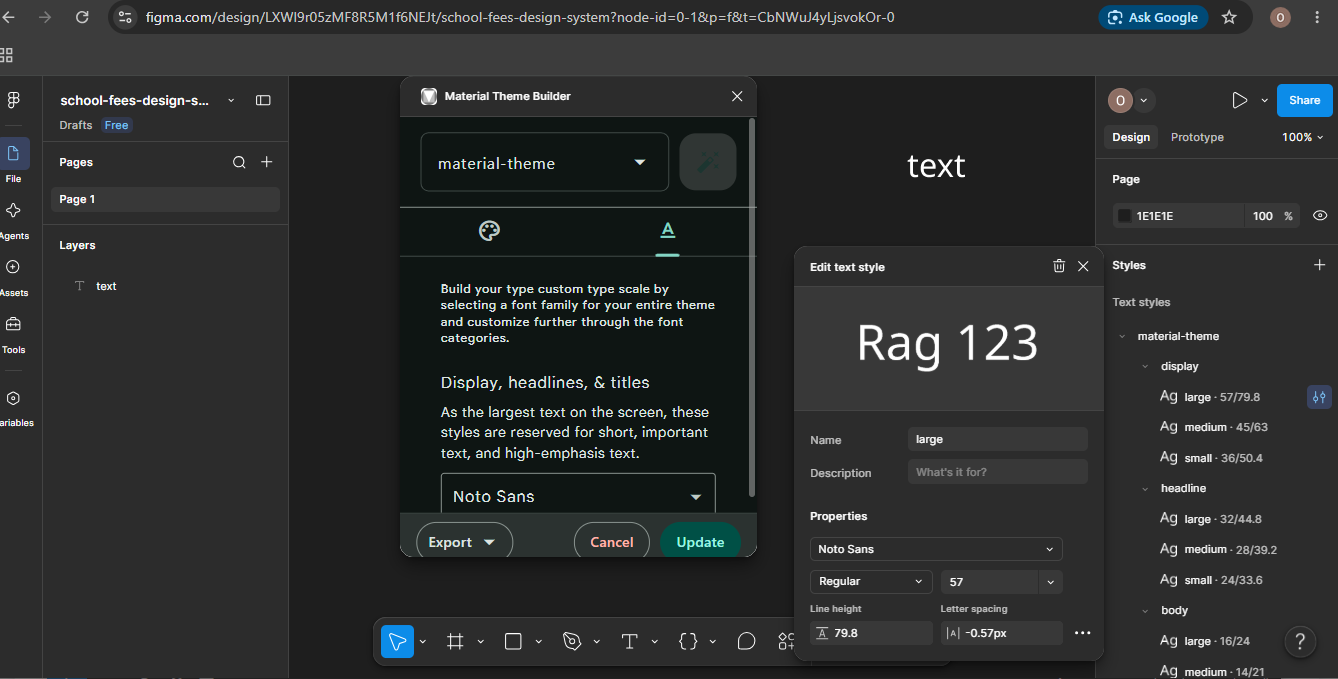
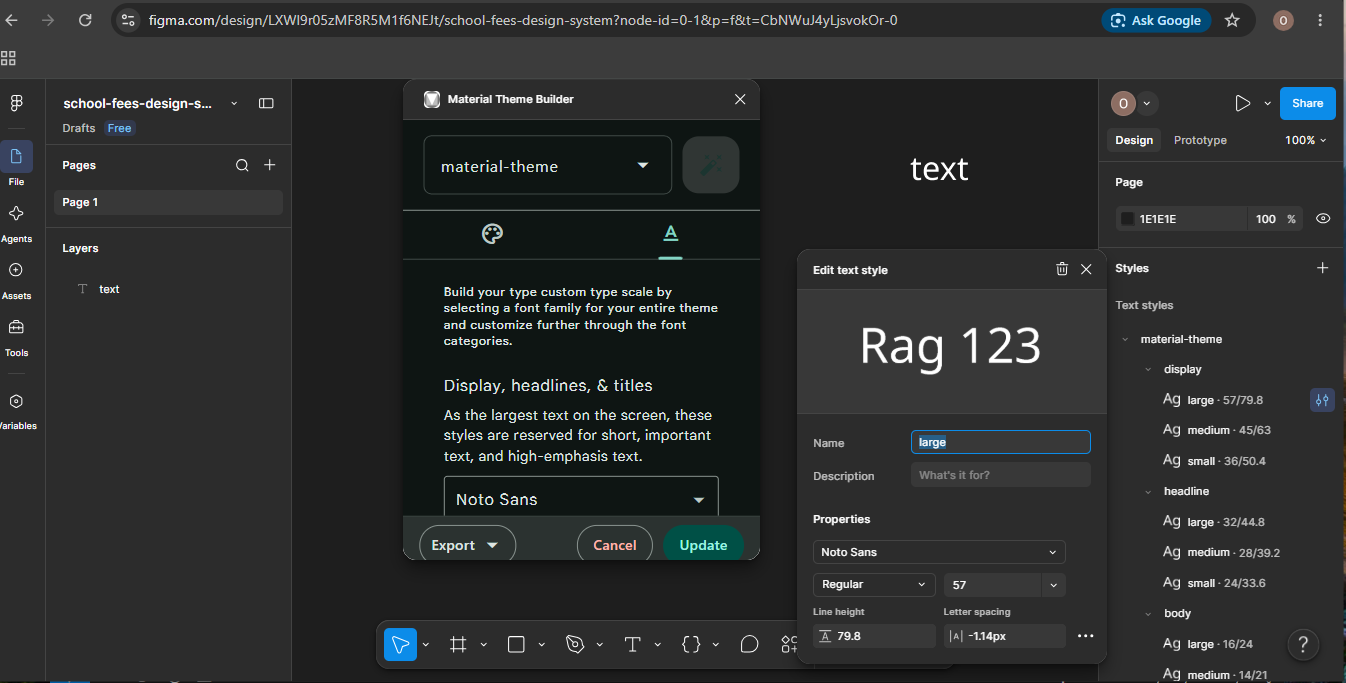
docs: correct display large letter spacing in decision log

diff --git a/task-01-design-system/docs/divergences.md b/task-01-design-system/docs/divergences.md
@@ -1,0 +1,15 @@
+# Divergences from the Material baseline
+
+## 1. Font family: Noto Sans instead of the plugin default
+
+- **Default:** Roboto for body and label styles, and the plugin box I could reach offered Noto Sans only for display, headline and title.
+- **Chosen:** Noto Sans for all 15 styles, so the app loads one family.
+- **Why:** One family means one download for a parent whose data bundle runs low. Noto Sans also covers the marked letters in Yoruba names, and the naira sign displayed correctly when I tested it in Figma.
+- **Where it fails:** If a parent's data is almost gone, any web font costs bytes that a system font would not. I have not measured Noto Sans's file size, so I cannot say how much. It is also a neutral, generic face, so it does little to set this product apart.
+
+## 2. Display large letter spacing: -1.14px instead of -0.25px
+
+- **Default:** -0.25px.
+- **Chosen:** -1.14px, which is 2% of the 57px size.
+- **Why:** The brief says compact spacing helps people scan. I tried it and could barely tell the difference from the default, because the change is only 0.32px, about half a percent of a letter. I kept it as a mild nudge and not a visible improvement.
+- **Where it fails:** Tighter spacing hurts readers with low vision or dyslexia, who often need looser letters. On a very narrow phone, long words in a heading could also crowd.

diff --git a/task-01-design-system/docs/decision-log.md b/task-01-design-system/docs/decision-log.md
@@ -16,3 +16,4 @@
 - surface-tint (light) still held the old #016B5D after the pin. Set to #0A5F53 to match primary. The plugin copies the primary hex into each role rather than referencing it, so I expect other copies in the dark and high-contrast sets that I have not checked. This is the argument for variables that alias the palette instead of raw hex values.
 - Typeface: Noto Sans. Reasons: wide glyph coverage for Yoruba names with marked letters, the naira sign displays correctly (tested in Figma), Android uses Noto-family fallbacks if a font fails to load, and it is neutral and readable. Cost: it is generic, so I will differentiate with my own weights and letter spacing. Rejected DM Sans because it is the class example font.
 - Type scale: all 15 line heights set to font size x 1.4 (display, headline), x 1.5 (title, body), x 1.6 (label). Body and label fonts changed from the plugin default Roboto to Noto Sans so the app loads one family. Display large letter spacing changed from the default -0.25px to -0.57px (1% of 57px), judged by eye against the default.
+- Correction: display large letter spacing is -1.14px (2% of 57px), not -0.57px. I tried -0.57 first and could barely tell it from the default -0.25, so I went to -1.14.
